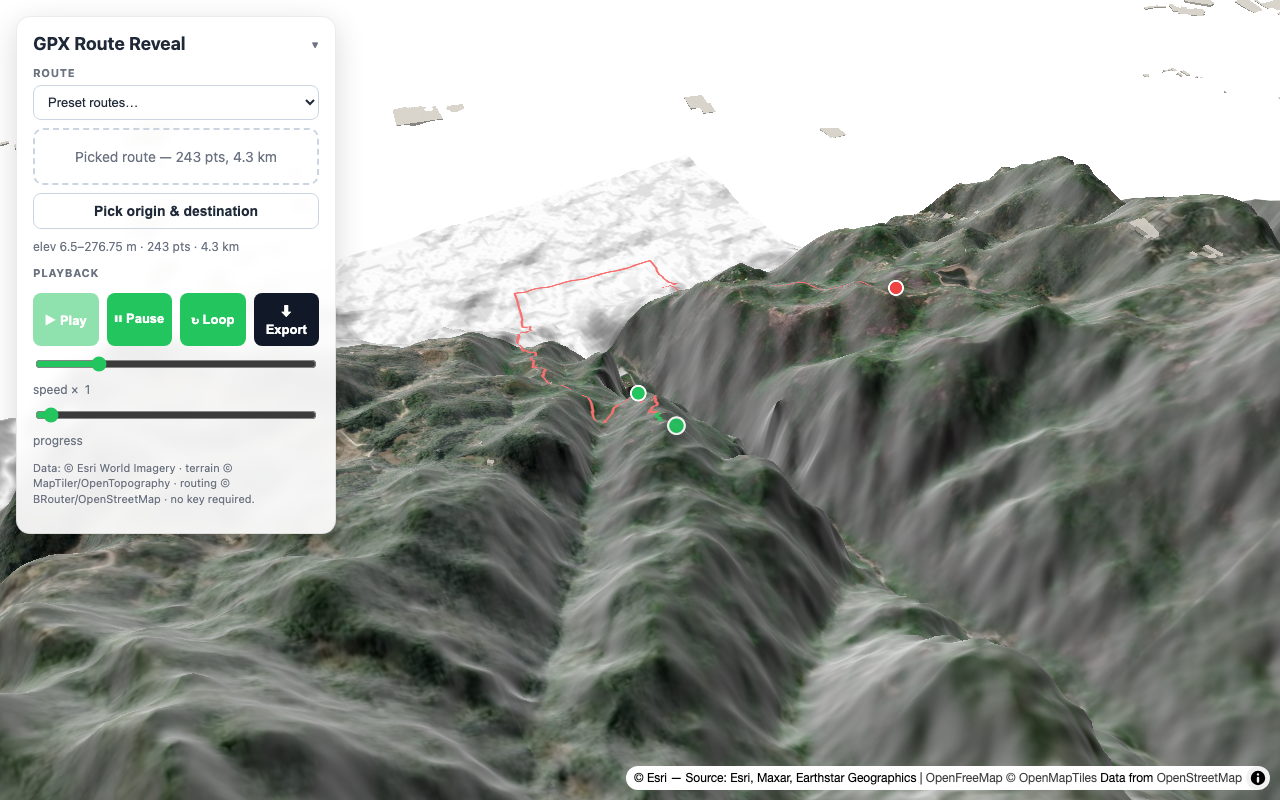
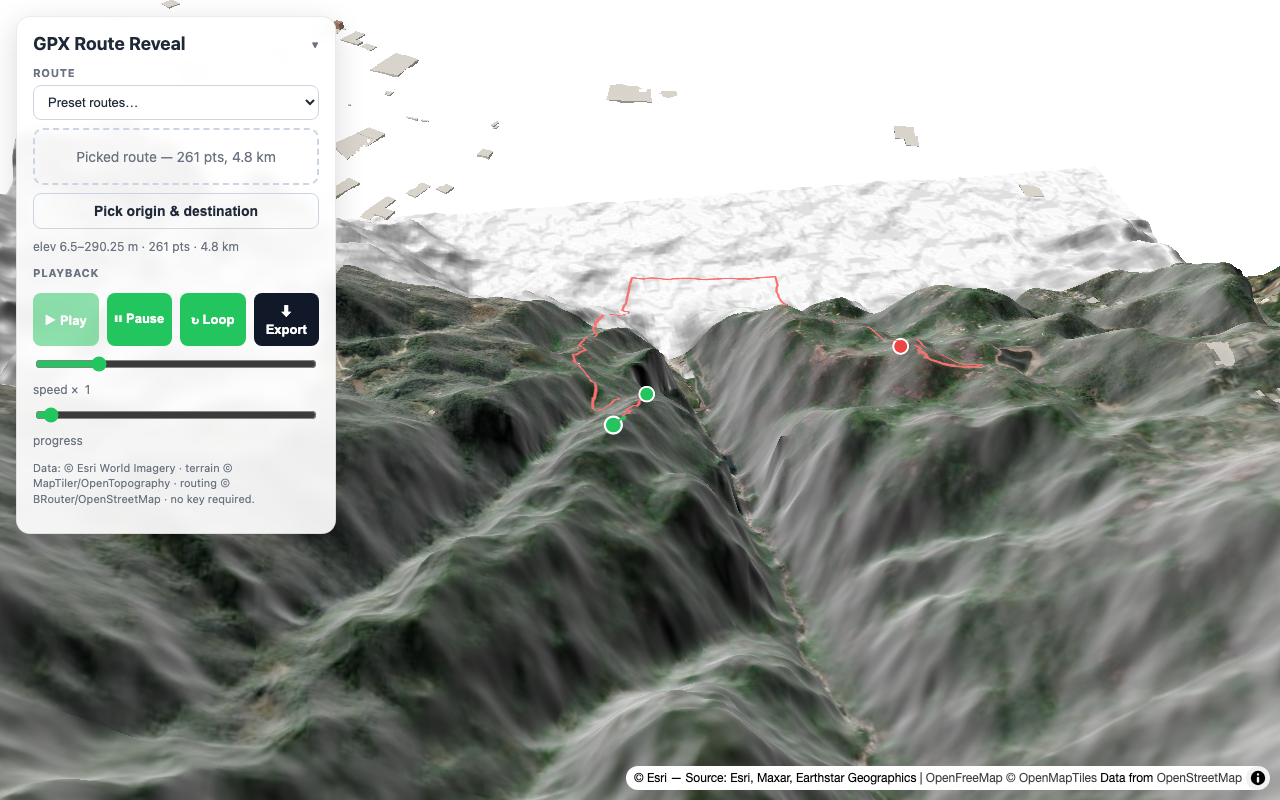
feat: 4 more preset routes (Fudao, Sanfang, Wushan, Shangxiahang) (#20)

diff --git a/src/main.ts b/src/main.ts
@@ -102,6 +102,26 @@ const PRESETS: Record<string, { a: [number, number]; b: [number, number]; name: 
     b: [119.3761614, 26.0760735], // Baiyun Cave climbing trail
     name: "Yongquan → Baiyun",
   },
+  "fudao-jinniushan": {
+    a: [119.2487938, 26.0848005], // Fudao trailhead, Hongshan
+    b: [119.2596272, 26.0880239], // Jinniushan park
+    name: "Fudao → Jinniushan",
+  },
+  "sanfang-yantai": {
+    a: [119.2919836, 26.0850946], // Three Lanes and Seven Alleys
+    b: [119.3108953, 26.0481449], // Yantai Hill park
+    name: "Sanfang → Yantai",
+  },
+  "wushan-yushan": {
+    a: [119.2896128, 26.0780444], // Wushan (Black Pagoda)
+    b: [119.3033916, 26.0813406], // Yushan (White Pagoda)
+    name: "Wushan → Yushan",
+  },
+  "shangxiahang-yantai": {
+    a: [119.3030957, 26.0559454], // Shangxiahang historic streets
+    b: [119.3108953, 26.0481449], // Yantai Hill park
+    name: "Shangxiahang → Yantai",
+  },
 };
 
 let reveal: RouteReveal | null = null;

diff --git a/index.html b/index.html
@@ -18,6 +18,10 @@
           <option value="">Preset routes…</option>
           <option value="moxi">Moxi Trail (demo.gpx)</option>
           <option value="yongquan-baiyun">Yongquan Temple → Baiyun Cave (Gushan)</option>
+          <option value="fudao-jinniushan">Fudao Skyline Walk → Jinniushan</option>
+          <option value="sanfang-yantai">Three Lanes &amp; Seven Alleys → Yantai Hill</option>
+          <option value="wushan-yushan">Wushan → Yushan (two pagodas)</option>
+          <option value="shangxiahang-yantai">Shangxiahang → Yantai Hill</option>
         </select>
         <div id="drop">Drop .gpx here</div>
         <input id="file" type="file" accept=".gpx" hidden />
